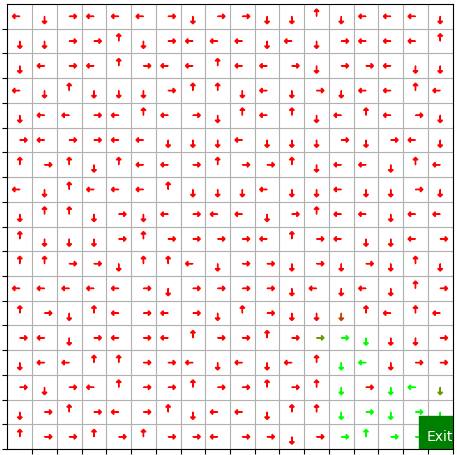
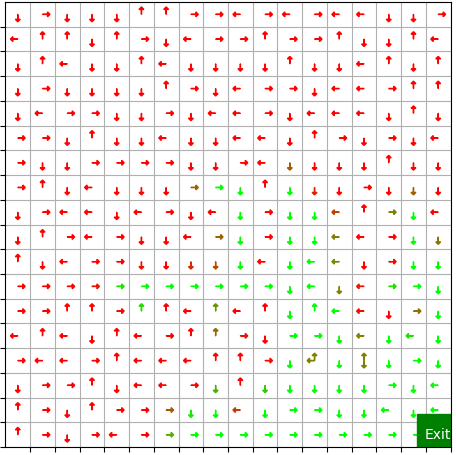
Final of the final update of results, with some models allowed to train longer

Changed region(s): [[0.0, 0.0, 1.0, 1.0]]

diff --git a/main.py b/main.py
@@ -20,9 +20,9 @@ class Test(Enum):
     SARSA = auto()
     SARSA_ELIGIBILITY = auto()
 
-test = Test.VALUE_ITERATION # which test to run
+test = Test.Q_ELIGIBILITY # which test to run
 
-mazeType = "normal8" # maze types
+mazeType = "blank18" # maze types
 
 if mazeType == "normal8":
     maze = np.array([
@@ -101,34 +101,34 @@ if test == Test.SHOW_MAZE_ONLY:
 if test == Test.VALUE_ITERATION:
     game.render(Render.TRAINING)
     model = models.ValueIterationModel(game)
-    h, w, _, _ = model.train(discount=0.90, theta=1e-4, max_iterations=1000)
+    h, w, _, _ = model.train(discount=0.90, theta=1e-4, max_iterations=200)
 
 # train using tabular Q-learning
 if test == Test.Q_LEARNING:
     game.render(Render.TRAINING)
     model = models.QTableModel(game)
-    h, w, _, _ = model.train(discount=0.90, exploration_rate=0.10, learning_rate=0.10, episodes=100,
+    h, w, _, _ = model.train(discount=0.90, exploration_rate=0.10, learning_rate=0.10, episodes=200,
                              stop_at_convergence=True)
 
 # train using tabular Q-learning and an eligibility trace (aka TD-lambda)
 if test == Test.Q_ELIGIBILITY:
     game.render(Render.TRAINING)
     model = models.QTableTraceModel(game)
-    h, w, _, _ = model.train(discount=0.90, exploration_rate=0.10, learning_rate=0.10, episodes=100,
+    h, w, _, _ = model.train(discount=0.90, exploration_rate=0.10, learning_rate=0.10, episodes=200,
                              stop_at_convergence=True)
 
 # train using tabular SARSA learning
 if test == Test.SARSA:
     game.render(Render.TRAINING)
     model = models.SarsaTableModel(game)
-    h, w, _, _ = model.train(discount=0.90, exploration_rate=0.10, learning_rate=0.10, episodes=100,
+    h, w, _, _ = model.train(discount=0.90, exploration_rate=0.10, learning_rate=0.10, episodes=200,
                              stop_at_convergence=True)
 
 # train using tabular SARSA learning and an eligibility trace
 if test == Test.SARSA_ELIGIBILITY:
     game.render(Render.TRAINING)  # shows all moves and the q table; nice but slow.
     model = models.SarsaTableTraceModel(game)
-    h, w, _, _ = model.train(discount=0.90, exploration_rate=0.10, learning_rate=0.10, episodes=100,
+    h, w, _, _ = model.train(discount=0.90, exploration_rate=0.10, learning_rate=0.10, episodes=200,
                              stop_at_convergence=True)
 
 # draw graphs showing development of win rate and cumulative rewards

diff --git a/environment/maze.py b/environment/maze.py
@@ -51,16 +51,16 @@ class Maze:
     actions = [Action.MOVE_LEFT, Action.MOVE_RIGHT, Action.MOVE_UP, Action.MOVE_DOWN]  # all possible actions
 
     # 8 x 8
-    reward_exit = 10.0  # reward for reaching the exit cell
-    penalty_move = -0.05  # penalty for a move which did not result in finding the exit cell
-    penalty_visited = -0.25  # penalty for returning to a cell which was visited earlier
-    penalty_impossible_move = -0.75  # penalty for trying to enter an occupied cell or moving out of the maze
+    # reward_exit = 10.0  # reward for reaching the exit cell
+    # penalty_move = -0.05  # penalty for a move which did not result in finding the exit cell
+    # penalty_visited = -0.25  # penalty for returning to a cell which was visited earlier
+    # penalty_impossible_move = -0.75  # penalty for trying to enter an occupied cell or moving out of the maze
 
     # 18 x 18
-    # reward_exit = 100.0  # reward for reaching the exit cell
-    # penalty_move = -1  # penalty for a move which did not result in finding the exit cell
-    # penalty_visited = -5  # penalty for returning to a cell which was visited earlier
-    # penalty_impossible_move = -10  # penalty for trying to enter an occupied cell or moving out of the maze
+    reward_exit = 100.0  # reward for reaching the exit cell
+    penalty_move = -1  # penalty for a move which did not result in finding the exit cell
+    penalty_visited = -5  # penalty for returning to a cell which was visited earlier
+    penalty_impossible_move = -10  # penalty for trying to enter an occupied cell or moving out of the maze
 
     def __init__(self, maze, start_cell=(0, 0), exit_cell=None):
         """ Create a new maze game.

diff --git a/models/value_iteration.py b/models/value_iteration.py
@@ -23,7 +23,7 @@ class ValueIterationModel(AbstractModel):
         """Run value iteration until convergence."""
         discount = kwargs.get("discount", 0.90)
         theta = kwargs.get("theta", 1e-4)
-        max_iterations = max(kwargs.get("max_iterations", 1000), 1)
+        max_iterations = max(kwargs.get("max_iterations", 200), 1)
 
         start_time = datetime.now()
         iterations = 0
